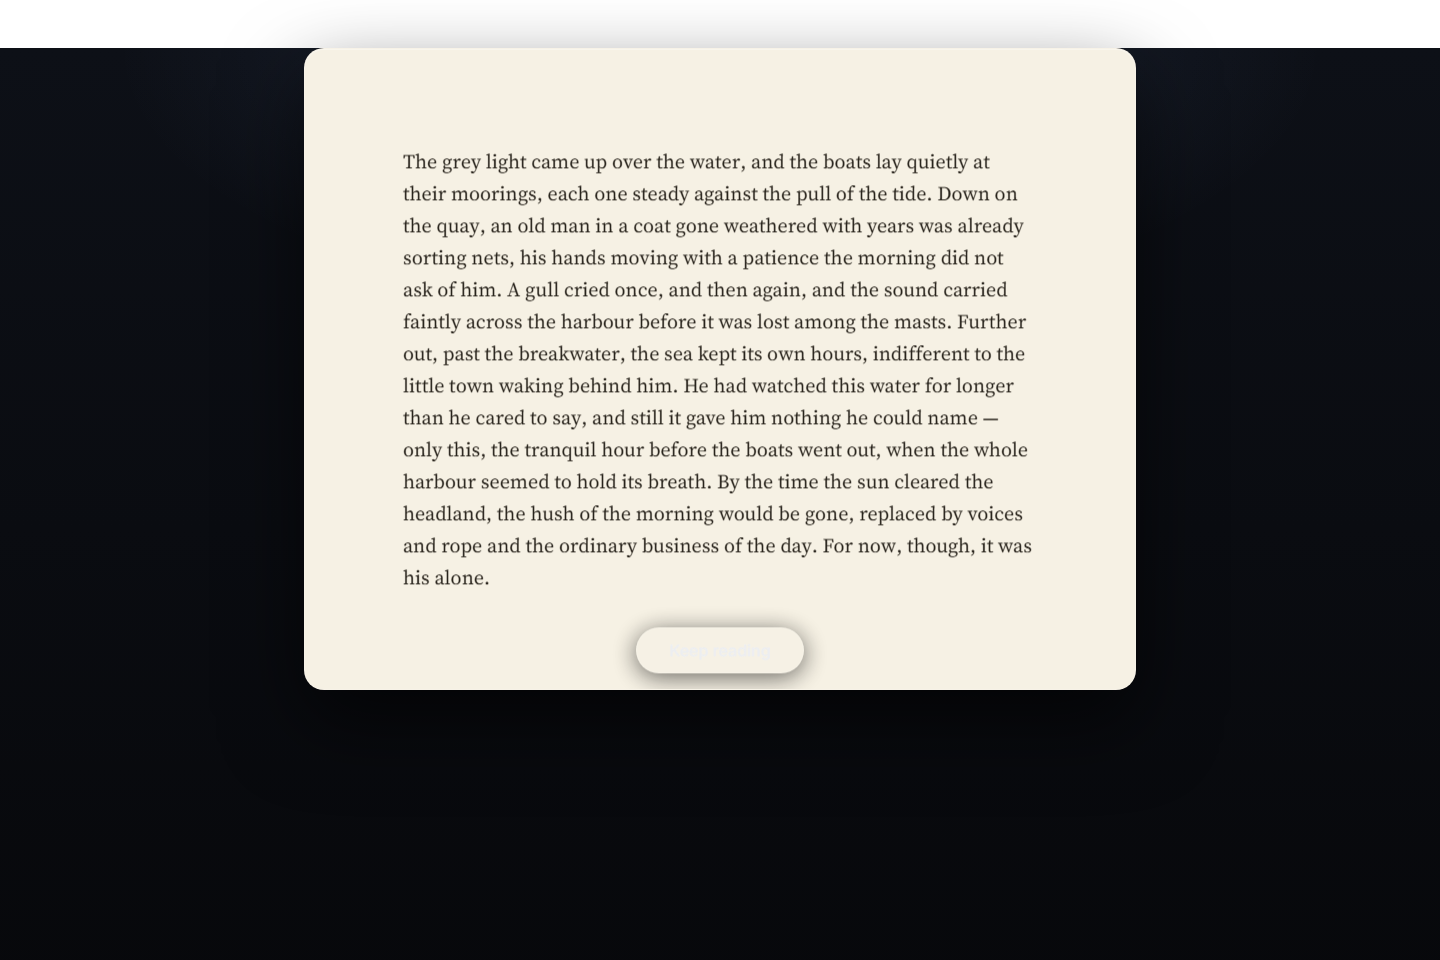
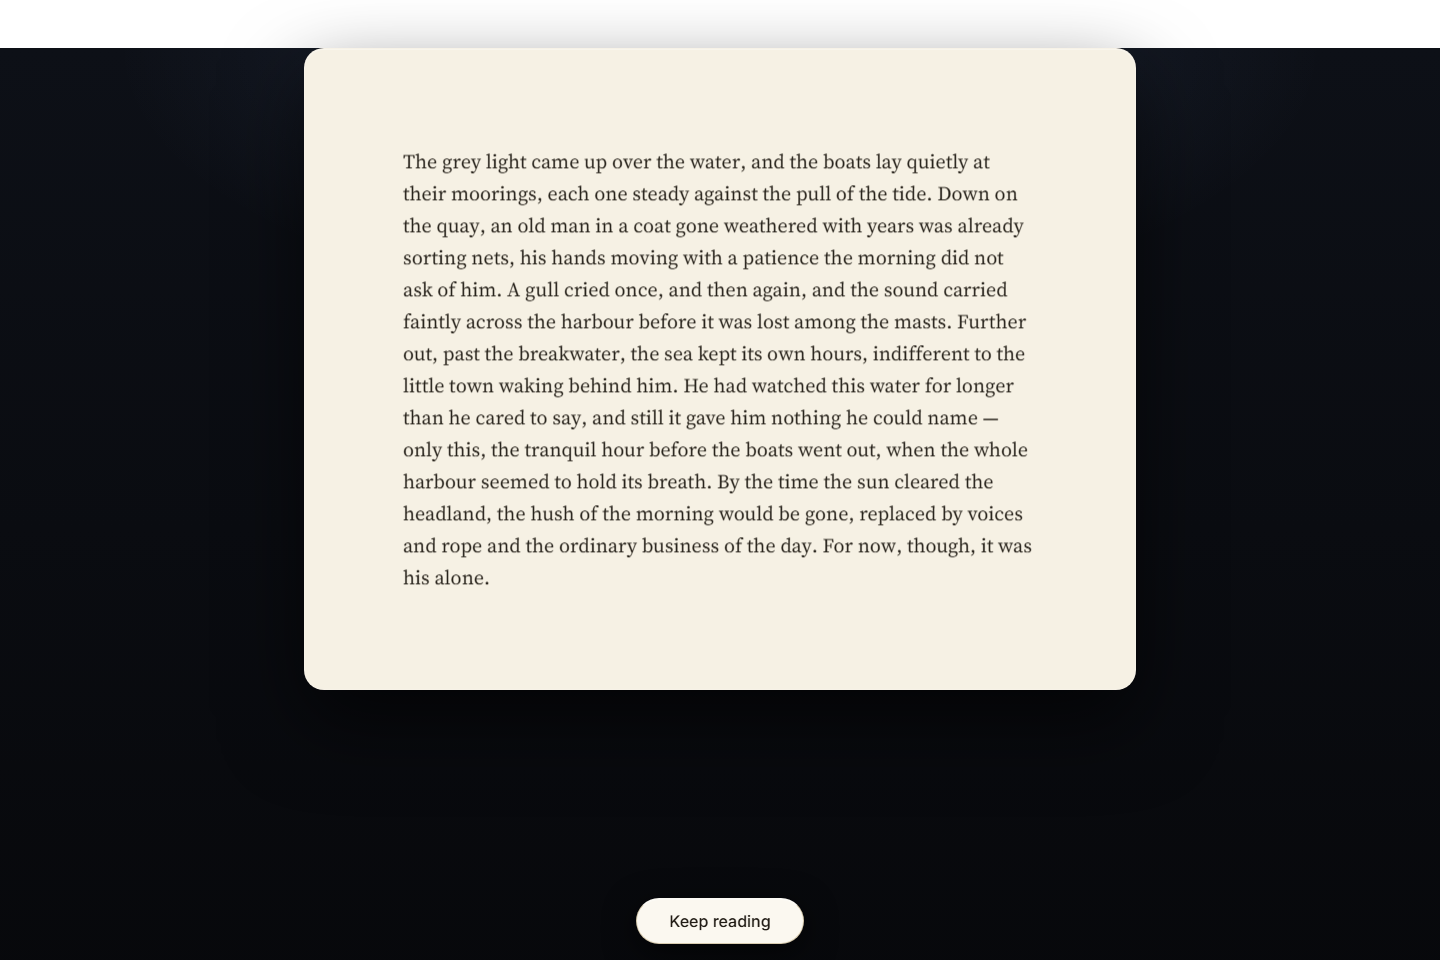
Fix the near-invisible glass "Keep reading" button: escape a lingering transform, then make the control legible either way
Root cause, found by measuring rather than guessing: .passage-page's own
entrance animation (passage-arrive) uses animation-fill-mode: both, which
keeps the final keyframe's transform: translateY(0) applied at rest after
the animation ends. Any non-none transform on an ancestor establishes a
new containing block for position: fixed descendants, so the pull-up
button (and GlossCard's backdrop, same hazard, same ancestor) stopped
resolving against the true viewport and started resolving against the
card instead. Confirmed with getBoundingClientRect measurements before
and after: button top moved from 578px-relative-to-the-card to a correct
898px-relative-to-a-960px-viewport once fixed.

This was invisible in paper (card and ground are literally the same
tone there, so a mispositioned element never crosses a contrast
boundary) and a real WCAG failure in glass, where the button ended up
painted with the surrounding dark-ground tokens on top of the light
card underneath it -- pale-on-pale, ~1:1 contrast against a measured
15.94:1 after the fix.

Two changes: both PassagePage's pull-up bar and GlossCard's backdrop are
now portalled to document.body, decoupling them from any future
transformed ancestor entirely rather than chasing this one animation.
And the pull-up button's own colours are now always the passage's page
tokens (dark ink on warm paper, same pattern GlossCard already used)
rather than the surrounding register's chrome tokens -- belt and
[…]

Changed region(s): [[0.4375, 0.625, 0.5625, 0.7188], [0.4375, 0.9375, 0.5625, 1.0]]

diff --git a/apps/web/e2e/reading.spec.ts b/apps/web/e2e/reading.spec.ts
@@ -48,6 +48,58 @@ for (const register of registers) {
       expect(await words.count()).toBeGreaterThan(20);
     });
 
+    // A screenshot review caught this, not a code review: the passage's own
+    // entrance animation (passage-arrive) leaves a lingering identity
+    // transform on .passage-page after it finishes (animation-fill-mode:
+    // both keeps the final keyframe applied at rest). Any non-`none`
+    // transform on an ancestor creates a new containing block for
+    // position: fixed descendants, so the pull-up button and the gloss
+    // card's backdrop stopped being fixed to the viewport and became fixed
+    // to the card instead -- invisible in paper (card and ground are the
+    // same tone there) and a real contrast failure in glass, where the
+    // button landed pale-on-pale on the card. Both are now portalled to
+    // document.body specifically to escape this; these two checks are the
+    // regression guard for the geometry half of that fix.
+    test("fixed-position overlays anchor to the real viewport, not the card", async ({ page }) => {
+      const viewport = page.viewportSize();
+      if (!viewport) throw new Error("no viewport");
+
+      await page.goto(`/read?register=${register}`);
+      await page.locator(".passage-continue-button").scrollIntoViewIfNeeded();
+      await page.waitForTimeout(300); // let the entrance animation finish and settle.
+
+      const buttonBox = await page.locator(".passage-continue-button").boundingBox();
+      expect(buttonBox).not.toBeNull();
+      // Within a few px of the true viewport bottom -- if an ancestor's
+      // lingering transform hijacked the containing block again, this
+      // would land wherever that ancestor's box happens to end instead.
+      expect(Math.abs(viewport.height - (buttonBox!.y + buttonBox!.height))).toBeLessThan(30);
+
+      await page.locator(".passage-word").first().click();
+      const backdropBox = await page.locator(".gloss-backdrop").boundingBox();
+      expect(backdropBox).toEqual({ x: 0, y: 0, width: viewport.width, height: viewport.height });
+    });
+
+    // The token half of the same fix: wherever the button ends up, it has
+    // to be legible. It is always styled from the passage's own page
+    // tokens (dark ink on warm paper) rather than the surrounding
+    // register's chrome tokens, specifically because "wherever it ends up"
+    // is not fully controlled by this app -- a long passage that scrolls
+    // can legitimately put a viewport-fixed bottom bar over the card even
+    // with correct positioning.
+    test("the pull-up button is always page-toned, not register-toned", async ({ page }) => {
+      await page.goto(`/read?register=${register}`);
+      const styles = await page.locator(".passage-continue-button").evaluate((el) => {
+        const cs = getComputedStyle(el);
+        return { color: cs.color, background: cs.backgroundColor };
+      });
+      // rgb(33, 28, 21) / rgb(251, 248, 240) -- design/tokens.json's
+      // page.light.ink / page.light.cardGround. Same values in both
+      // registers is the point: this control never reads the register.
+      expect(styles.color).toBe("rgb(33, 28, 21)");
+      expect(styles.background).toBe("rgb(251, 248, 240)");
+    });
+
     test("gloss tap arrives and dismisses", async ({ page }) => {
       await page.goto(`/read?register=${register}`);
       const firstWord = page.locator(".passage-word").first();

diff --git a/apps/web/src/components/PassagePage.css b/apps/web/src/components/PassagePage.css
@@ -58,24 +58,39 @@
   pointer-events: auto;
 }
 
+/* Paper heart, same as the gloss card (GlossCard.css) and for the same
+   reason: this bar sits at the bottom of the viewport regardless of
+   register, and on a long passage that scrolls it can legitimately end up
+   overlapping the card itself, not just the ground beneath it. Tokens tied
+   to the dark ground (--chrome-*) would read fine in that gap and go
+   unreadable the moment it lands on the card -- which is exactly the
+   defect Kihea's screenshot review caught. Always page-toned, so it is
+   readable wherever it actually lands. */
 .passage-continue-button {
   font-family: var(--font-sans);
   font-size: var(--type-ui-size-md);
   font-weight: var(--type-ui-weight-medium);
   padding: var(--space-3) var(--space-6);
   border-radius: var(--radius-pill);
-  border: 1px solid var(--chrome-panel-border, var(--chrome-card-border));
-  background: var(--chrome-panel-fill, var(--chrome-card-ground));
-  color: var(--chrome-ink);
-  backdrop-filter: blur(var(--chrome-panel-blur, 0px));
-  -webkit-backdrop-filter: blur(var(--chrome-panel-blur, 0px));
-  box-shadow: 0 4px 24px var(--chrome-shadow);
+  border: 1px solid var(--page-card-border);
+  background: var(--page-card-ground);
+  color: var(--page-ink);
+  box-shadow: 0 4px 24px var(--page-shadow);
   cursor: pointer;
 }
 
 .passage-continue-button:focus-visible {
-  outline: 2px solid var(--chrome-accent);
+  outline: 2px solid var(--page-accent);
   outline-offset: 2px;
+}
+
+/* The glass edge, same pattern as [data-register="glass"] .gloss-card --
+   the one place the two registers are allowed to touch. */
+[data-register="glass"] .passage-continue-button {
+  border-top-color: var(--chrome-metal-highlight);
+  box-shadow:
+    0 8px 32px var(--chrome-shadow),
+    0 1px 0 var(--chrome-metal-highlight) inset;
 }
 
 @media (prefers-reduced-motion: reduce) {

diff --git a/apps/web/src/components/PassagePage.tsx b/apps/web/src/components/PassagePage.tsx
@@ -3,6 +3,7 @@
 // the only thing that ever changes is whether the gloss card is open.
 import { useEffect, useRef, useState } from "react";
 import "./PassagePage.css";
+import { createPortal } from "react-dom";
 import type { Passage } from "../engine/port";
 import type { ComposedPassage, SourceExcerpt } from "../content/types";
 import { fillTemplate, tokenize } from "../content/render";
@@ -69,11 +70,22 @@ export function PassagePage({ record, passage, onWordTap, onFinish }: PassagePag
 
       <div ref={sentinelRef} aria-hidden="true" />
 
-      <div className={`passage-continue${nearEnd ? " passage-continue--visible" : ""}`}>
-        <button type="button" className="passage-continue-button" onClick={onFinish}>
-          Keep reading
-        </button>
-      </div>
+      {/* Portalled for the same reason GlossCard is: this article carries a
+         lingering identity transform from its own entrance animation once
+         it finishes (animation-fill-mode: both), which silently makes it
+         the containing block for any position: fixed descendant instead of
+         the viewport. In the glass register that landed the button on the
+         card's own surface, styled for the dark ground behind it -- pale
+         text on a pale card, unreadable. Escaping to document.body is the
+         fix that holds regardless of how tall the passage or its card is. */}
+      {createPortal(
+        <div className={`passage-continue${nearEnd ? " passage-continue--visible" : ""}`}>
+          <button type="button" className="passage-continue-button" onClick={onFinish}>
+            Keep reading
+          </button>
+        </div>,
+        document.body,
+      )}
 
       {activeWord && <GlossCard word={activeWord} onDismiss={() => setActiveWord(null)} />}
     </article>

diff --git a/apps/web/src/components/GlossCard.tsx b/apps/web/src/components/GlossCard.tsx
@@ -5,6 +5,7 @@
 // edge answers to the register underneath it.
 import "./GlossCard.css";
 import { useEffect, useRef } from "react";
+import { createPortal } from "react-dom";
 import { glossFor } from "../fixtures/glosses";
 
 export interface GlossCardProps {
@@ -24,7 +25,16 @@ export function GlossCard({ word, onDismiss }: GlossCardProps) {
     return () => window.removeEventListener("keydown", onKey);
   }, [onDismiss]);
 
-  return (
+  // Portalled to document.body rather than rendered in place. This card is
+  // a child of PassagePage, and PassagePage's own entrance animation
+  // (`passage-arrive`) leaves a lingering identity transform on its root
+  // element after it finishes (animation-fill-mode: both keeps the final
+  // keyframe's `transform: translateY(0)` applied at rest). Any non-`none`
+  // transform on an ancestor creates a new containing block for
+  // `position: fixed` descendants -- so `.gloss-backdrop`'s `inset: 0`
+  // would resolve against that ancestor's box instead of the viewport
+  // without this. Found via the same class of bug as the pull-up button.
+  return createPortal(
     <div className="gloss-backdrop" onClick={onDismiss}>
       <div
         ref={cardRef}
@@ -37,6 +47,7 @@ export function GlossCard({ word, onDismiss }: GlossCardProps) {
         <p className="gloss-definition">{entry.definition}</p>
         <p className="gloss-elsewhere">{entry.elsewhere}</p>
       </div>
-    </div>
+    </div>,
+    document.body,
   );
 }
